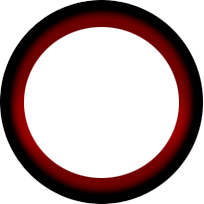
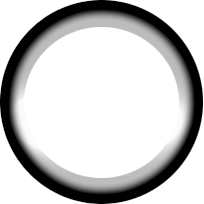
browser buttons about gfx (if you want you can do something better skinpreview seeker gfx changes

Changed region(s): [[0.0294, 0.0294, 0.9706, 0.9706]]

diff --git a/skins/Impressfera_wip/scripts/browsebutton.m b/skins/Impressfera_wip/scripts/browsebutton.m
@@ -1,0 +1,24 @@
+/*	----------------------------------
+	Browser Url Button script
+	by pjn123 (www.skinconsortium.com)
+	----------------------------------
+*/
+
+#include <lib/std.mi>
+
+Global Group myGroup;
+Global GuiObject browserxui, myButton;
+Global Layout myLayout;
+
+System.onScriptLoaded() {
+	myGroup = getScriptGroup();
+	myButton = myGroup.getObject(getToken(getParam(), ";", 0));
+	
+	myLayout = getContainer("winampbrowser").getLayout("normal");
+	browserxui = myLayout.findObject("browser.winamp.xui");
+}
+
+myButton.onLeftButtonUp(int x, int y){
+	myLayout.show();
+	browserxui.sendAction ("openurl", getToken(getParam(), ";", 1), 0, 0, 0, 0);
+}

diff --git a/skins/Impressfera_wip/scripts/fadeonhover.m b/skins/Impressfera_wip/scripts/fadeonhover.m
@@ -1,18 +1,18 @@
 #include <lib/std.mi>
 
 Global Group mainGroup;
-Global Layer light, seeker;
+Global GuiObject light, seeker;
 
 System.onScriptLoaded() {
 	mainGroup = getScriptGroup();
-	light = mainGroup.findObject("seeker.light");
-	seeker = mainGroup.findObject("seeker.bg.1");
+	light = mainGroup.findObject(getToken(getParam(), ";", 0));
+	seeker = mainGroup.findObject(getToken(getParam(), ";", 1));
 }
 
 seeker.onEnterArea(){
 	light.cancelTarget();
-	light.setTargetA(30);
-	light.setTargetSpeed(0.3);
+	light.setTargetA(stringToInteger(getToken(getParam(), ";", 2)));
+	light.setTargetSpeed(0.2);
 	light.gotoTarget();
 }
 seeker.onLeaveArea(){
